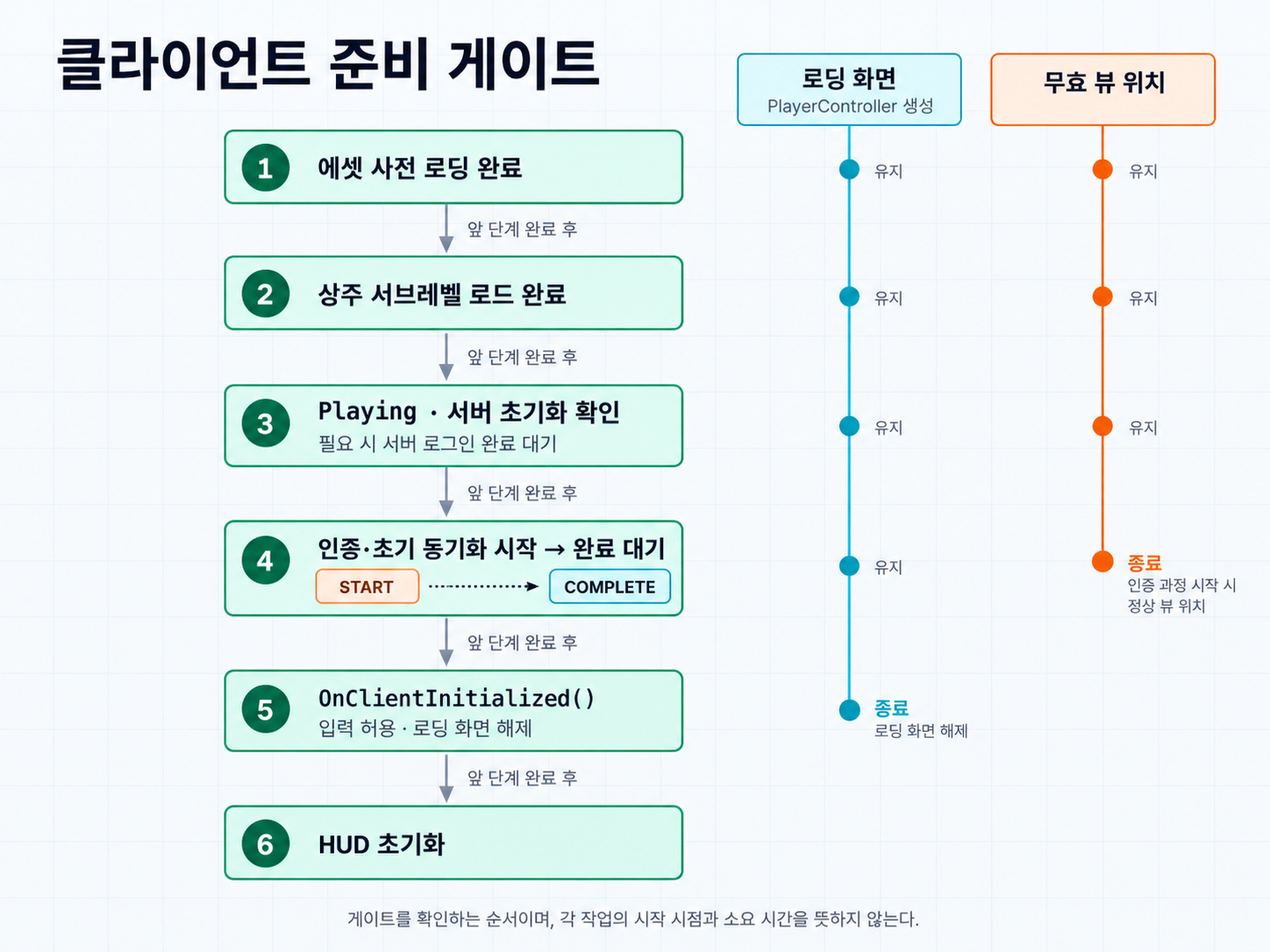
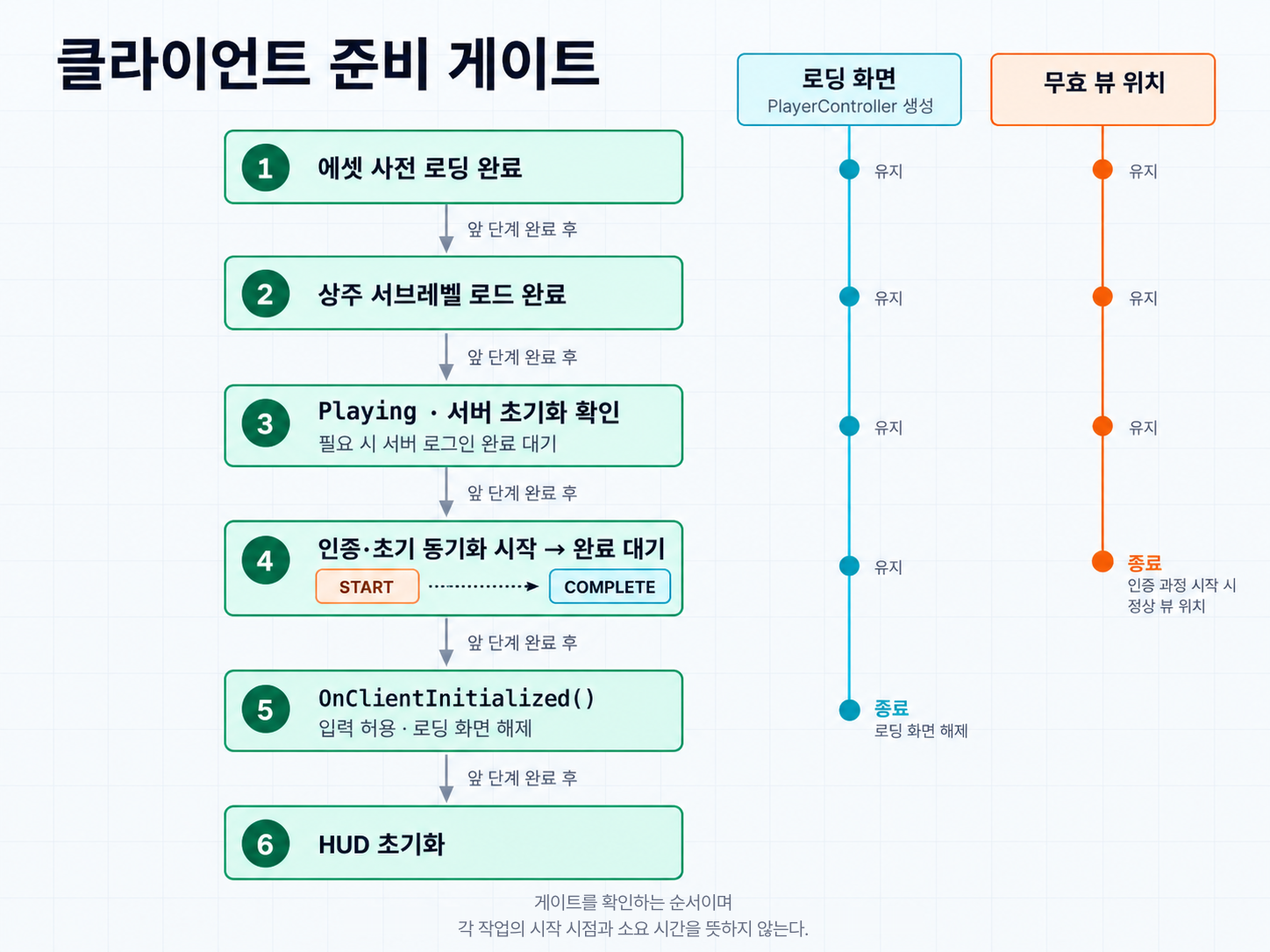
docs(notd): polish optimization series prose and diagram footnotes (#168)
## Summary

NOTD 멀티플레이 최적화 시리즈 5편의 본문을 윤문하고, 글마다 반복되던 예시 코드 고지 문장을 제거합니다. 도식 이미지 6장의
하단 설명 문구도 한 줄로 길게 늘어진 것을 두 줄로 나눴습니다.

## Changes

- `humanize-korean` 파이프라인을 글마다 별도 서브에이전트로 실행했습니다.
`.agents/docs/blog-writing/`의 voice-profile·editing·evaluation 기준을 우선
적용했습니다.
- 개요·레벨 스트리밍·Reliable RPC·좀비 글은 light 경로로 처리했습니다. 변경은 대부분 연결어미 뒤 쉼표를 정리한
것입니다.
- 월드 오브젝트 글은 standard 경로로 처리했습니다. "~하는 것은 X이다" 분열문과 "가지고 있다" 표현 등 6줄을
고쳤습니다.
- 주어가 바뀌거나 대비되는 경계의 쉼표는 남겼습니다. 패키지 이름 길이가 RPC 크기의 원인이라는 설명, 코드, 링크, 이미지,
프런트매터는 바꾸지 않았습니다.
- `이 글의 코드는 구조를 설명하기 위해 새로 작성한 예시이며…` 문장을 4편에서 제거했습니다.
  - 예시 코드가 원본과 어떻게 다른지 설명하는 Reliable RPC 글의 본문 문단은 그대로 두었습니다.
- 도식 하단 문구를 두 줄로 나눴습니다.
- 대상: `rpc-buffer-flow`, `client-ready-gates`, `foliage-mirror-queue`,
`eqs-reuse-conditions`, `zombie-cost-routing`,
`container-replication-scope`
  - 원본과 같은 크기·굵기·색으로 다시 쓰고, 원본처럼 무손실 WebP로 저장했습니다.
- `rpc-buffer-flow`와 `eqs-reuse-conditions`는 상자에 두 줄이 들어가도록 상자를 늘려 이미지
높이가 각각 22px, 14px 늘었습니다.

## Validation

- `pnpm check`: 통과, 오류·경고·힌트 0개.
- `pnpm type-check`: 통과.
- `pnpm build`: 통과, Astro 빌드와 Pagefind 인덱싱까지 완료.
- `humanize-korean`의 `verify_gates`는 글마다 변경률 0.0~0.5%였습니다.
- Reliable RPC·월드 오브젝트 글은 경고(exit 1)가 났습니다. 원인은 일부러 남긴 쉼표로 인한 지표 미달과,
cpp 코드의 `FMath::Square(...)`를 각주로 읽은 오탐입니다.
  - 두 글 모두 finalize 검증에서 의미 보존 위반은 0건이었습니다.
- 수정한 도식의 하단 영역을 원본 크기로 확인했습니다. 지운 자리 흔적이나 글자 겹침은 없었습니다.

## Notes

- `src/constants/lqips.json`은 이미지 평균 색상만 저장하므로 다시 생성하지 않았습니다. `pnpm
lqips` 실행 결과도 신규 항목 0개였습니다.

Changed region(s): [[0.2797, 0.942, 0.7148, 1.0]]

diff --git a/src/content/posts/notd-level-streaming-status-rpc.md b/src/content/posts/notd-level-streaming-status-rpc.md
@@ -15,19 +15,17 @@ draft: false
 lang: ko
 ---
 
-클라이언트가 서버에 접속하면 엔진은 현재 스트리밍 레벨들의 상태를 한 번에 알려 준다. `AGameModeBase::ReplicateStreamingStatus()`가 월드의 모든 스트리밍 레벨을 순회하며 상태 배열을 만들고, `ClientUpdateMultipleLevelsStreamingStatus()`라는 Reliable Client RPC로 보낸다.
+클라이언트가 서버에 접속하면 엔진은 현재 스트리밍 레벨들의 상태를 한 번에 알려 준다. `AGameModeBase::ReplicateStreamingStatus()`가 월드의 모든 스트리밍 레벨을 순회하며 상태 배열을 만들고 `ClientUpdateMultipleLevelsStreamingStatus()`라는 Reliable Client RPC로 보낸다.
 
 배열의 원소는 `FUpdateLevelStreamingLevelStatus`다. LOD 인덱스 하나, 로드 여부와 표시 여부 같은 bool 네 개, 그리고 레벨의 패키지 이름(`FName`)이 들어 있다. 숫자와 플래그는 몇 바이트에 불과하지만 패키지 이름은 `/Game/Maps/...`로 시작하는 경로 전체다. 엔진은 하드코딩된 이름이 아닌 `FName`을 문자열로 직렬화하므로, 원소 크기의 대부분은 이 경로 문자열이 차지한다.
 
-[Night of the Dead](/projects/night-of-the-dead/)는 오픈월드라 스트리밍 레벨 수가 많았다. 접속할 때마다 `레벨 수 × 경로 길이`만큼의 문자열이 Reliable RPC 하나에 실렸다. 이 RPC가 여러 번치로 쪼개져 접속 직후의 Reliable 버퍼를 차지하면서 실제로 버퍼가 넘쳤다. 원소 크기를 키우는 것은 길이가 긴 패키지 이름이었고, 내용 대부분은 서버와 클라이언트가 이미 똑같이 알고 있는 문자열이어서 반복해서 보내는 경로를 코드로 대체했다.
-
-이 글의 코드는 구조를 설명하기 위해 새로 작성한 예시이며 프로젝트의 실제 코드와는 이름과 세부가 다르다.
+[Night of the Dead](/projects/night-of-the-dead/)는 오픈월드라 스트리밍 레벨 수가 많았다. 접속할 때마다 `레벨 수 × 경로 길이`만큼의 문자열이 Reliable RPC 하나에 실렸다. 이 RPC가 여러 번치로 쪼개져 접속 직후의 Reliable 버퍼를 차지하면서 실제로 버퍼가 넘쳤다. 원소 크기를 키우는 것은 길이가 긴 패키지 이름이었다. 내용 대부분은 서버와 클라이언트가 이미 똑같이 알고 있는 문자열이어서 반복해서 보내는 경로를 코드로 대체했다.
 
 ## 경로 대신 코드를 보낸다
 
 스트리밍 레벨의 목록은 빌드에 고정돼 있다. 양쪽이 같은 표를 가지고 있으면 경로 대신 표의 번호만 보내면 된다.
 
-레벨 에셋을 한 행에 하나씩 담은 DataTable을 만들고, 게임 인스턴스 서브시스템이 시작할 때 이 표를 읽어 양방향 맵을 만든다. 코드는 행 순서에 1을 더한 값이다. 0은 "코드 없음"으로 남겨 둔다.
+레벨 에셋을 한 행에 하나씩 담은 DataTable을 만들고 게임 인스턴스 서브시스템이 시작할 때 이 표를 읽어 양방향 맵을 만든다. 코드는 행 순서에 1을 더한 값이다. 0은 "코드 없음"으로 남겨 둔다.
 
 ```cpp
 void ULevelStatusCoderSubsystem::BuildCodeMaps(const UDataTable* Table)
@@ -145,7 +143,7 @@ struct TStructOpsTypeTraits<FCodedLevelStatus> : public TStructOpsTypeTraitsBase
 | 코드가 있을 때: 레벨 코드 | 16비트 |
 | 코드가 없을 때: 패키지 이름 | 문자열 |
 
-코드가 있는 원소의 페이로드는 29비트다. 배열 길이와 RPC, 번치, 패킷의 헤더는 제외한 값이며, 전체 전송량이나 측정된 절감률을 뜻하지 않는다. 바뀐 부분은 각 원소에서 긴 경로 문자열을 16비트 코드로 대체한 것이다.
+코드가 있는 원소의 페이로드는 29비트다. 배열 길이와 RPC, 번치, 패킷의 헤더는 제외한 값이며 전체 전송량이나 측정된 절감률을 뜻하지 않는다. 바뀐 부분은 각 원소에서 긴 경로 문자열을 16비트 코드로 대체한 것이다.
 
 ![](./images/notd-multiplayer-optimization/level-code-payload.webp)
 
@@ -153,7 +151,7 @@ struct TStructOpsTypeTraits<FCodedLevelStatus> : public TStructOpsTypeTraitsBase
 
 ### 표에 없는 레벨은 그대로 보낸다
 
-다섯 번째 비트는 표에 없는 레벨을 처리하기 위한 분기다. 표에 등록되지 않은 레벨은 코드가 0이고, 이때는 원래대로 패키지 이름을 보낸다. 레벨을 추가하고 표 갱신을 잊으면 그 레벨만 압축되지 않는다. 서버는 코드가 없는 레벨을 만나면 경고 로그를 남겨 누락을 알 수 있게 했다. 이 폴백은 표에 없는 이름을 처리할 뿐, 양쪽 표에서 같은 코드가 서로 다른 레벨을 가리키는 문제까지 해결하지는 않는다.
+다섯 번째 비트는 표에 없는 레벨을 처리하기 위한 분기다. 표에 등록되지 않은 레벨은 코드가 0이고 이때는 원래대로 패키지 이름을 보낸다. 레벨을 추가하고 표 갱신을 잊으면 그 레벨만 압축되지 않는다. 서버는 코드가 없는 레벨을 만나면 경고 로그를 남겨 누락을 알 수 있게 했다. 이 폴백은 표에 없는 이름을 처리할 뿐, 양쪽 표에서 같은 코드가 서로 다른 레벨을 가리키는 문제까지 해결하지는 않는다.
 
 표를 갖추지 않은 맵으로 테스트할 때를 위해 이 경고를 끄는 설정도 두었다.
 
@@ -212,16 +210,16 @@ void AMyPlayerController::ClientUpdateCodedLevelStatuses_Implementation(const TA
 
 ## 접속 과정에서의 위치
 
-이 RPC는 접속 과정의 한 단계일 뿐이다. 클라이언트가 실제로 플레이할 수 있게 되기까지는 다음 조건을 순서대로 통과해야 했다. PlayerController가 매 틱 플래그를 확인하고, 앞 단계가 끝나지 않았으면 뒤 단계로 넘어가지 않는다.
+이 RPC는 접속 과정의 한 단계일 뿐이다. 클라이언트가 실제로 플레이할 수 있게 되기까지는 다음 조건을 순서대로 통과해야 했다. PlayerController가 매 틱 플래그를 확인하고 앞 단계가 끝나지 않았으면 뒤 단계로 넘어가지 않는다.
 
 1. 에셋 사전 로딩 완료
 2. 상주 서브레벨 로드 완료
-3. 클라이언트 초기화: Playing 상태와 서버 초기화 플래그를 확인하고, 필요한 경우 서버 로그인 완료를 기다린다.
+3. 클라이언트 초기화: Playing 상태와 서버 초기화 플래그를 확인하고 필요한 경우 서버 로그인 완료를 기다린다.
 4. 인증·초기 동기화 과정 시작과 완료 대기
 5. `OnClientInitialized()`에서 입력 허용과 로딩 화면 해제
 6. HUD 초기화
 
-로딩 화면은 PlayerController가 만들어지는 시점부터 띄우고 5번에서 내린다. 뷰 위치를 무효한 값으로 돌려주는 기간은 이보다 짧다. 게임용 PlayerController에서 `LoginAuthComponent->IsProcessBegun()`이 참이 될 때까지 무효한 위치를 반환하고, 인증·초기 동기화가 시작되면 정상 뷰 위치를 사용한다. 임시 스폰 위치를 기준으로 주변 레벨이 스트리밍되거나 주변 액터가 복제 대상으로 잡히는 일을 막기 위한 처리다.
+로딩 화면은 PlayerController가 만들어지는 시점부터 띄우고 5번에서 내린다. 뷰 위치를 무효한 값으로 돌려주는 기간은 이보다 짧다. 게임용 PlayerController에서 `LoginAuthComponent->IsProcessBegun()`이 참이 될 때까지 무효한 위치를 반환하고 인증·초기 동기화가 시작되면 정상 뷰 위치를 사용한다. 임시 스폰 위치를 기준으로 주변 레벨이 스트리밍되거나 주변 액터가 복제 대상으로 잡히는 일을 막기 위한 처리다.
 
 ![](./images/notd-multiplayer-optimization/client-ready-gates.webp)
 
@@ -236,15 +234,15 @@ void AMyPlayerController::ClientUpdateCodedLevelStatuses_Implementation(const TA
 1. 데이터 테이블에서 수집한 이펙트, 사운드, 플레이어 애니메이션
 2. `UPreloadDataAsset`에 명시한 에셋과 블루프린트 클래스. 목록 에셋을 하나씩 순서대로 처리하되, 각 목록 안의 에셋과 클래스는 `LoadAssetList()`로 함께 요청한다.
 3. 2번에서 로드된 에셋이 다시 참조하는 2차 에셋. 해당 에셋 타입이 "내가 필요로 하는 에셋 목록"을 돌려주는 인터페이스를 구현한다.
-4. 2번에서 로드된 클래스의 CDO가 지연 로딩하는 에셋. 클래스를 하나씩 처리하고, 각 CDO가 필요한 에셋 목록을 비동기로 로드한다. 좀비 클래스가 자기 공격, 피격 애니메이션 목록을 직접 알려 주는 식이다.
+4. 2번에서 로드된 클래스의 CDO가 지연 로딩하는 에셋. 클래스를 하나씩 처리하고 각 CDO가 필요한 에셋 목록을 비동기로 로드한다. 좀비 클래스가 자기 공격, 피격 애니메이션 목록을 직접 알려 주는 식이다.
 
-1·3단계는 수집한 경로 목록을 묶어 비동기 로드를 요청한다. 로드된 객체는 프리로더가 하드 참조로 쥐고 있어 GC에 수거되지 않는다. 첫 사용 시점의 로딩을 줄이는 대신 접속 대기 시간과 상주 메모리를 부담하는 선택이며, 총 로딩 작업량을 줄이는 방법은 아니다.
+1·3단계는 수집한 경로 목록을 묶어 비동기 로드를 요청한다. 로드된 객체는 프리로더가 하드 참조로 쥐고 있어 GC에 수거되지 않는다. 첫 사용 시점의 로딩을 줄이는 대신 접속 대기 시간과 상주 메모리를 부담하는 선택이며 총 로딩 작업량을 줄이는 방법은 아니다.
 
 Dedicated Server는 2단계에 별도의 목록을 쓴다. 서버에 필요한 목록을 분리해 클라이언트용 에셋이 그대로 로드되는 일을 줄일 수 있다. 다만 1단계의 이펙트·사운드·플레이어 애니메이션 수동 수집은 별도 설정으로 제어하므로, 서버용 목록을 쓴다는 이유만으로 모든 시각·음향 에셋이 제외되지는 않는다. 서버는 GameMode의 `BeginPlay()`에서 프리로더를 돌린 뒤 게임을 시작한다.
 
-클라이언트에는 사전 로딩 수준 옵션이 있다. `UPreloadDataAsset`에 지정한 `MinPreloadLevel`보다 옵션이 낮으면 해당 목록 전체를 건너뛴다. 개별 에셋마다 적용하는 필터는 아니며, Dedicated Server는 이 수준 필터를 적용하지 않는다.
+클라이언트에는 사전 로딩 수준 옵션이 있다. `UPreloadDataAsset`에 지정한 `MinPreloadLevel`보다 옵션이 낮으면 해당 목록 전체를 건너뛴다. 개별 에셋마다 적용하는 필터는 아니며 Dedicated Server는 이 수준 필터를 적용하지 않는다.
 
-2단계의 진행률은 완료한 목록 수를 전체 목록 수로 나눈 값이다. 목록 하나가 끝날 때마다 로딩 화면을 갱신하지만, 그 안의 개별 에셋 크기나 로딩 시간을 반영한 진행률은 아니다.
+2단계의 진행률은 완료한 목록 수를 전체 목록 수로 나눈 값이다. 목록 하나가 끝날 때마다 로딩 화면을 갱신하지만 그 안의 개별 에셋 크기나 로딩 시간을 반영한 진행률은 아니다.
 
 ## 참고 자료
 

diff --git a/src/content/posts/notd-reliable-rpc-data-streaming.md b/src/content/posts/notd-reliable-rpc-data-streaming.md
@@ -15,13 +15,13 @@ draft: false
 lang: ko
 ---
 
-[Night of the Dead](/projects/night-of-the-dead/)에는 플레이어 한 명에게만 필요하고, 플레이할수록 계속 쌓이는 데이터가 있었다. 퀘스트 진행도, 해금한 건물, 지도에 찍은 마커, 걷어 낸 지도 안개 같은 것들이다. 접속할 때는 누적된 내용을 한꺼번에 받아야 하고, 이후에는 조금씩 바뀐다.
+[Night of the Dead](/projects/night-of-the-dead/)에는 플레이어 한 명에게만 필요하고 플레이할수록 계속 쌓이는 데이터가 있었다. 퀘스트 진행도, 해금한 건물, 지도에 찍은 마커, 걷어 낸 지도 안개 같은 것들이다. 접속할 때는 누적된 내용을 한꺼번에 받아야 하고 이후에는 조금씩 바뀐다.
 
 ![](./images/notd-multiplayer-optimization/map-markers.avif)
 
 이 데이터를 Reliable RPC 하나에 담아 보내면 문제가 생긴다. 엔진은 액터 채널마다 아직 수신 확인을 받지 못한 Reliable 번치를 정해진 개수(`RELIABLE_BUFFER`)까지만 쌓아 둔다. 큰 RPC는 여러 개의 부분 번치로 쪼개져 이 버퍼를 차지하고, 버퍼가 넘치면 엔진은 복구하지 않고 연결을 닫는다.
 
-그래서 데이터를 잘게 나누고, 버퍼에 여유가 있을 때 다음 조각을 보내는 전송 경로를 만들었다. 누적 데이터의 크기보다 한 번에 쌓이는 전송량을 제어하는 데 초점을 뒀다. 이 글의 코드는 구조를 설명하기 위해 새로 작성한 예시이며 프로젝트의 실제 코드와는 이름과 세부가 다르다.
+그래서 데이터를 잘게 나누고, 버퍼에 여유가 있을 때 다음 조각을 보내는 전송 경로를 만들었다. 누적 데이터의 크기보다 한 번에 쌓이는 전송량을 제어하는 데 초점을 뒀다.
 
 ## 구조
 
@@ -147,9 +147,9 @@ void UStreamRouterComponent::TickComponent(float DeltaTime, ELevelTick TickType,
 
 `UActorChannel::NumOutRec`은 그 채널에서 보냈지만 아직 수신 확인을 받지 못한 Reliable 번치의 수다. 네트워크 ACK를 받으면 줄어든다. 별도의 ack RPC 없이 전송 큐의 밀린 정도를 볼 수 있지만, 클라이언트가 레코드를 디코딩하거나 게임 상태에 반영했는지는 알 수 없다.
 
-전송을 멈추는 임계값은 버퍼 전체가 아니라 4분의 1로 잡았다. 같은 채널로 캐릭터의 다른 Reliable RPC도 나가기 때문이다. 스트리밍이 버퍼를 다 채우면 그 순간 발생한 게임플레이 RPC가 연결을 끊는 원인이 된다. 낮은 임계값은 다른 RPC가 들어올 여유를 두기 위한 선택이며, 나머지 4분의 3을 예약하는 기능은 아니다.
+전송을 멈추는 임계값은 버퍼 전체가 아니라 4분의 1로 잡았다. 같은 채널로 캐릭터의 다른 Reliable RPC도 나가기 때문이다. 스트리밍이 버퍼를 다 채우면 그 순간 발생한 게임플레이 RPC가 연결을 끊는 원인이 된다. 낮은 임계값은 다른 RPC가 들어올 여유를 두기 위한 선택이며 나머지 4분의 3을 예약하는 기능은 아니다.
 
-ACK가 늦게 오는 연결에서는 `NumOutRec`이 천천히 줄고, 그만큼 다음 조각도 늦게 나간다. 고정된 틱 간격과 조각 크기 안에서 전송을 계속할지를 채널 상태로 판단한다.
+ACK가 늦게 오는 연결에서는 `NumOutRec`이 천천히 줄고 그만큼 다음 조각도 늦게 나간다. 고정된 틱 간격과 조각 크기 안에서 전송을 계속할지를 채널 상태로 판단한다.
 
 다만 확인하는 것은 이미 큐에 쌓인 번치 수다. 다음 RPC가 몇 바이트이고 몇 개 번치로 나뉠지는 계산하지 않는다. 큰 조각 하나가 임계값을 넘어 버퍼를 채울 수도 있으므로 이 방식만으로 오버플로를 완전히 막을 수는 없다. 작은 레코드를 묶어 보내는 조건에서 순간적인 전송 집중을 완화하는 흐름 제어다.
 
@@ -157,9 +157,9 @@ ACK가 늦게 오는 연결에서는 `NumOutRec`이 천천히 줄고, 그만큼 
 
 ### 전송 자체는 엔진에 맡긴다
 
-이 구조에는 시퀀스 번호, 재조립 버퍼, 재전송 타이머가 없다. 같은 액터 채널의 Reliable RPC 순서와 재전송은 엔진에 맡기고 라우터는 "언제 보낼 것인가"를 정한다. 조각 하나는 최대 레코드 100개를 그대로 담은 RPC 한 번이라 클라이언트는 조각이 도착하는 대로 바로 디코딩할 수 있다. 나눠 보내는 것만으로 총 전송량이 줄어드는 것은 아니며, RPC 호출마다 전송 부가 정보도 붙는다.
+이 구조에는 시퀀스 번호, 재조립 버퍼, 재전송 타이머가 없다. 같은 액터 채널의 Reliable RPC 순서와 재전송은 엔진에 맡기고 라우터는 "언제 보낼 것인가"를 정한다. 조각 하나는 최대 레코드 100개를 그대로 담은 RPC 한 번이라 클라이언트는 조각이 도착하는 대로 바로 디코딩할 수 있다. 나눠 보내는 것만으로 총 전송량이 줄어드는 것은 아니며 RPC 호출마다 전송 부가 정보도 붙는다.
 
-접속 시의 일괄 전송과 플레이 중의 변경도 같은 경로를 쓴다. 소켓은 바뀐 항목을 버퍼에 모아 두었다가 틱에서 라우터에 넘긴다. 접속 시에는 버퍼에 전체가 들어 있고, 플레이 중에는 방금 바뀐 몇 개만 들어 있다는 차이뿐이다.
+접속 시의 일괄 전송과 플레이 중의 변경도 같은 경로를 쓴다. 소켓은 바뀐 항목을 버퍼에 모아 두었다가 틱에서 라우터에 넘긴다. 접속 시에는 버퍼에 전체가 들어 있고 플레이 중에는 방금 바뀐 몇 개만 들어 있다는 차이뿐이다.
 
 ## 소켓 쪽 인코딩
 
@@ -259,7 +259,7 @@ void AMyCharacter::BroadcastHit(const FHitInfoNet& HitInfo)
 
 RPC는 피격된 좀비가 아니라 수신자 자신의 캐릭터에서 호출한다. Client RPC는 소유 연결로만 가므로, 수신자가 소유한 액터를 통해야 연결마다 다른 신뢰성을 고를 수 있다. 피격 대상은 RPC의 인자로 넘긴다.
 
-프로젝트 원본은 `PlayerController`의 채널을 확인하고 RPC는 `PlayerCharacter`에서 호출한다. 두 액터의 채널은 다르므로 원본의 값이 실제 피격 RPC가 쌓이는 큐를 나타내지는 않는다. 위 예시에서 `Receiver`의 채널을 확인한 것은 이 차이를 바로잡은 설명용 수정이며, 프로젝트에 적용한 변경으로 제시하는 것은 아니다.
+프로젝트 원본은 `PlayerController`의 채널을 확인하고 RPC는 `PlayerCharacter`에서 호출한다. 두 액터의 채널은 다르므로 원본의 값이 실제 피격 RPC가 쌓이는 큐를 나타내지는 않는다. 위 예시에서 `Receiver`의 채널을 확인한 것은 이 차이를 바로잡은 설명용 수정이며 프로젝트에 적용한 변경으로 제시하는 것은 아니다.
 
 선택 기준은 가까운 피격을 가능한 한 Reliable로 보내되, 검사한 채널의 버퍼가 차오르면 Unreliable로 낮추는 것이다. 피격 연출의 일부 유실을 허용하고 Reliable 전송이 계속 쌓이는 것을 피하려 했다. 이 연결별 Client RPC 경로는 몽타주 재생 경로와도 다르다. 몽타주의 일부 Multicast 경로는 가까운 플레이어가 한 명이라도 있으면 전체 호출을 Reliable로 고른다.
 

diff --git a/src/content/posts/notd-world-objects-as-data.md b/src/content/posts/notd-world-objects-as-data.md
@@ -28,8 +28,6 @@ lang: ko
 
 ![](./images/notd-multiplayer-optimization/world-data-illustration.webp)
 
-이 글의 코드는 구조를 설명하기 위해 새로 작성한 예시이며 프로젝트의 실제 코드와는 이름과 세부가 다르다.
-
 ## 자연물: 인스턴스, 액터, 구조체
 
 ![](./images/notd-multiplayer-optimization/forest-airdrop.avif)
@@ -44,7 +42,7 @@ lang: ko
 
 ### 파괴된 것은 구조체 하나로
 
-완전히 파괴된 액터는 리스폰 매니저에 자신을 등록하고 사라진다. 매니저에 남는 것은 구조체 하나다.
+완전히 파괴된 액터는 리스폰 매니저에 자신을 등록하고 사라진다. 매니저에는 구조체 하나만 남는다.
 
 ```cpp
 USTRUCT()
@@ -146,7 +144,7 @@ void UFoliageMirrorComponent::OnRecordUnregistered(const FGuid& RespawnId)
 
 반대 방향도 있다. 다만 멀어졌다는 이유만으로 곧바로 반환하지는 않는다. 좀비의 `CanDespawn()`은 추격 중이면 반환을 막고, 기본 AI 판정은 플레이어와의 거리, 시야, 원래 위치로 복귀했는지를 확인한다. 스포너 활성 범위를 벗어난 액터를 강제로 반환하는 경로도 별도로 있다.
 
-다음 예시는 살아 있고 일시적인 대상이 아니며 스포너 활성 범위 안에 있는 액터를 구조체로 되돌리는 경로다. 원본에서는 범위를 벗어났거나 일시적인 대상이면 위치를 남기는 대신 스폰할 수만 증가시키고, 죽은 대상은 수를 복원하지 않는다.
+다음 예시는 액터를 구조체로 되돌리는 경로다. 살아 있고 일시적인 대상이 아니며 스포너 활성 범위 안에 있는 경우만 다룬다. 원본에서는 범위를 벗어났거나 일시적인 대상이면 위치를 남기는 대신 스폰할 수만 증가시키고, 죽은 대상은 수를 복원하지 않는다.
 
 ```cpp
 void AZombieSpawner::DemoteEligibleCharacters()
@@ -194,7 +192,7 @@ void AZombieSpawner::DemoteEligibleCharacters()
 
 ### 복제용 배열을 분리
 
-서버는 원본 배열과 복제용 배열을 따로 가진다. 복제되는 것은 복제용 배열뿐이다. 원본에서 복제용으로 옮길 때 근처에 플레이어가 있는지 확인하고, 없으면 복제용 배열을 비운다.
+서버는 원본 배열과 복제용 배열을 따로 가진다. 복제용 배열만 복제된다. 원본에서 복제용으로 옮길 때 근처에 플레이어가 있는지 확인하고, 없으면 복제용 배열을 비운다.
 
 ```cpp
 void FItemContainer::RefreshReplicatedItems(const AActor* Owner)
@@ -214,7 +212,7 @@ void FItemContainer::RefreshReplicatedItems(const AActor* Owner)
 }
 ```
 
-코드의 기본 거리는 보관함과 농장이 10m, 상점이 50m다. 전기 설비는 조건이 하나 더 있어서, 근처의 플레이어가 전선 연결 도구를 들고 있을 때만 연결 목록을 채운다.
+코드의 기본 거리는 보관함과 농장이 10m, 상점이 50m다. 전기 설비는 조건이 하나 더 있어서 근처의 플레이어가 전선 연결 도구를 들고 있을 때만 연결 목록을 채운다.
 
 이 건물들은 평소 휴면 상태다. 보관함과 농장의 거리 검사 기본 주기는 1초이고, 전기 설비는 0.5초다. 농장은 복제용 배열에 내용이 있을 때 `FlushNetDormancy()`를 호출해 업데이트를 허용한다. 보관함 컴포넌트도 `FlushNetDormancy()`와 `ForceNetUpdate()`를 감싼 함수에서 배열을 갱신한다.
 
@@ -222,7 +220,7 @@ void FItemContainer::RefreshReplicatedItems(const AActor* Owner)
 
 ### 행 전체 대신 ID
 
-원본 배열의 원소는 데이터 테이블 행을 통째로 가지고 있다. 이름, 설명 텍스트, 에셋 경로가 들어 있다. 클라이언트도 같은 테이블을 가지고 있으므로 이것을 보낼 이유가 없다. 복제용 구조체에는 테이블을 조회할 ID와 수량, 개체 ID만 둔다.
+원본 배열의 원소는 데이터 테이블 행을 통째로 가지고 있다. 이름, 설명 텍스트, 에셋 경로가 들어 있다. 클라이언트에도 같은 테이블이 있으므로 이것을 보낼 이유가 없다. 복제용 구조체에는 테이블을 조회할 ID와 수량, 개체 ID만 둔다.
 
 ```cpp
 USTRUCT()
@@ -259,7 +257,7 @@ struct FReplicatedItem
 - 레벨 스트리밍: 액터가 언로드돼도 상태는 매니저에 남는다.
 - 늦은 접속: 파괴된 자연물의 이력은 목록이므로 일괄 전송 경로를 그대로 쓸 수 있다.
 
-대신 형태를 바꾸는 지점마다 비용이 생긴다. 인스턴스를 액터로 바꿀 때의 스폰, 구조체를 액터로 되돌릴 때의 풀 처리, 거리 검사를 위한 주기적인 플레이어 순회가 그것이다. 위에서 본 프레임당 처리 수 제한과 타이머 분산은 모두 이 비용을 한 프레임에 몰지 않기 위한 것이다.
+대신 형태를 바꾸는 지점마다 비용이 생긴다. 인스턴스를 액터로 바꿀 때는 스폰이, 구조체를 액터로 되돌릴 때는 풀 처리가, 거리 검사에는 주기적인 플레이어 순회가 따른다. 위에서 본 프레임당 처리 수 제한과 타이머 분산은 모두 이 비용을 한 프레임에 몰지 않기 위한 것이다.
 
 ## 참고 자료
 
